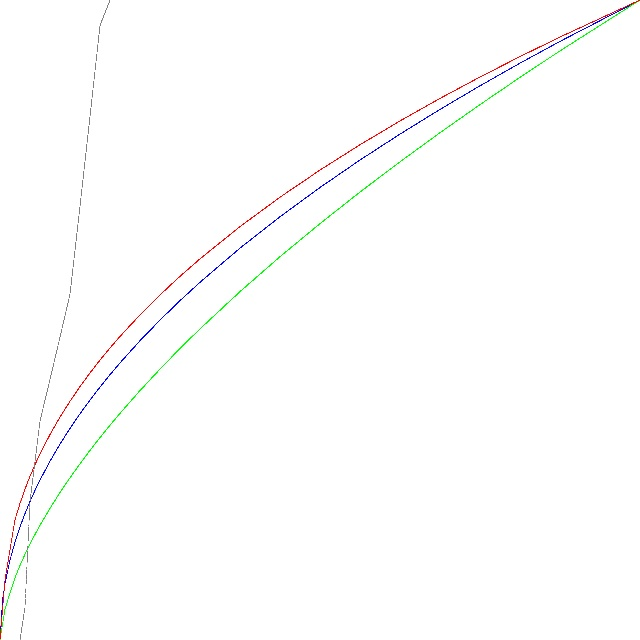
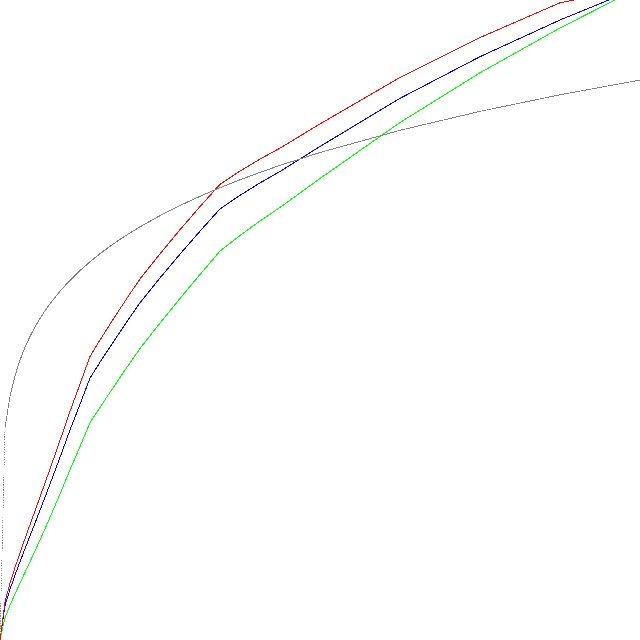
Camera: add gamma curve monitor

diff --git a/gamma/willisGamma.cpp b/gamma/willisGamma.cpp
@@ -8,46 +8,46 @@
 using namespace std;
 using namespace cv;
 
-int gamma_index[] = {
-    0, 64, 128, 256, 384, 512, 640, 768 ,
-    896, 1024, 1280, 1536, 1792, 2048, 2304, 2560 ,
-    2816, 3072, 3584, 4096, 4608, 5120, 6144, 7168 ,
-    8192, 9216, 10240, 11264, 12288, 13312, 14336, 16384 ,
+typedef unsigned int U32;
+// copy from the gamma_tuning.h
+typedef struct __gamma_base_config {
+    float normalGamma;
+    int normalBaseOffset;
+    int normalEndOffset;
+    U32 normalLinearityWeight;
+    float indoorGamma;
+    int indoorBaseOffset;
+    int indoorEndOffset;
+    U32 indoorLinearityWeight;
+    float outdoorGamma;
+    int outdoorBaseOffset;
+    int outdoorEndOffset;
+    U32 outdoorLinearityWeight;
+    const U32 *gamma_table_x;
+    const float *user_gamma;
+} gamma_base_config;
+
+
+// convert from the gamma_tuning.cpp.
+const U32 gamma_index[] =  {
+    0,     128,   256,   384,   512,   640,   768,   896,
+    1024,  1024+128, 1280, 1536,  1792,  2048,  2304,  2560,
+    2816,3072,  3072+256,  3584, 4096,  4608,  5120,  5120+512,
+    6144, 6144+512, 7168, 8192, 10240, 12288, 14336, 16384 
 };
 
-// normal gamma
-int gamma1_table[] = {
-    0, 1024, 1448, 2048, 2508, 2896, 3238, 3547,
-    3831, 4096, 4579, 5016, 5418, 5792, 6144, 6476,
-    6792, 7094, 7662, 8192, 8688, 9158, 10033, 10836,
-    11585, 12288, 12952, 13584, 14188, 14768, 15325, 16384,
-};
-
-// gamma indoor
-int gamma2_table[] = {
-    0, 399, 799, 1198, 1598, 1910, 2194, 2456,
-    2703, 2936, 3372, 3776, 4154, 4513, 4855, 5183,
-    5498, 5803, 6385, 6936, 7462, 7965, 8919, 9813,
-    10660, 11468, 12242, 12987, 13707, 14404, 15082, 16384,
-};
-
-// gamma outdoor
-int gamma3_table[] = {
-    0, 769, 1539, 2308, 3078, 3499, 3864, 4191 ,
-    4489, 4764, 5262, 5708, 6113, 6488, 6837, 7166 ,
-    7477, 7772, 8325, 8835, 9311, 9758, 10584, 11336, 
-    12031, 12679, 13289, 13865, 14413, 14936, 15437, 16384 ,
-};
-
-int gamma4_table[] = {
-    0, 0, 0, 0, 0, 0, 841, 3552,
-    4575, 5608, 6672, 7753, 8856, 11104, 13404, 15730,
-    16384, 16384, 16384, 16384, 16384, 16384, 16384, 16384,
-    16384, 16384, 16384, 16384, 16384, 16384, 16384, 16384
+const float user_gamma[] = {
+    0.1f, 0.52f, 0.55f, 0.58f, 0.61f, 0.64f, 0.67f, 0.7f,
+    0.73f, 0.76f, 0.79f, 0.85f, 0.91f, 0.96f, 1.01f, 1.02f,
+    1.03f, 1.04f, 1.05f, 1.06f, 1.07f, 1.08f, 1.09f, 1.10f,
+    1.09f, 1.08f, 1.07f, 1.06f, 1.05f, 1.04f, 1.03f, 1.02f,
 };
 
 int gamma_w = 16384;
 int gamma_h = 16384;
+#define GAMMA_MAX_VALUE 16384
+#define GAMMA_TABLE_COUNT 32
+
 void dot(vector<Mat> gamma_planes, int x, int y, int detla, int b, int g, int r) {
     int x1 = x - detla;
     int x2 = x + detla;
@@ -74,11 +74,50 @@ void Gamma(double R, int w, int h, vector<Mat> &gamma_planes) {
         int y = C * pow(x, R);
         dot(gamma_planes, x, y, 20, 0, 0, 0);
     }
-};
+}
+
+void initGamma(U32 *gamma_table_y, float gamma, int base_offset, int end_offset, int linearity) {
+    float C = (GAMMA_MAX_VALUE - base_offset + end_offset) /pow (GAMMA_MAX_VALUE, gamma);
+    int result = 0;
+    for (int i = 0; i < GAMMA_TABLE_COUNT; i++) {
+        result  = C * pow (gamma_index[i], gamma) + base_offset;
+        gamma_table_y[i] = (result < 0) ? 0 : (result > GAMMA_MAX_VALUE) ? GAMMA_MAX_VALUE : result;
+    }
+}
+
+gamma_base_config baseConfig;
+
 int main(int arg, char **argv) {
     Mat gamma(gamma_h, gamma_w, CV_8UC3, Scalar(255, 255,255));
     vector<Mat> gamma_planes;
     split(gamma, gamma_planes);
+
+
+    baseConfig.normalGamma = 1/2.2f;
+    baseConfig.normalBaseOffset = -128;
+    baseConfig.normalEndOffset = 0;
+    baseConfig.normalLinearityWeight = 0;
+
+    baseConfig.indoorGamma = 1/1.8f;
+    baseConfig.indoorBaseOffset = 0;
+    baseConfig.indoorEndOffset = 0;
+    baseConfig.indoorLinearityWeight = 0;
+
+    baseConfig.outdoorGamma = 1/2.4f;
+    baseConfig.outdoorBaseOffset = -384;
+    baseConfig.outdoorEndOffset = 384;
+    baseConfig.outdoorLinearityWeight = 4;
+
+    baseConfig.gamma_table_x = gamma_index;
+    baseConfig.user_gamma = user_gamma;
+
+    // normal gamma.
+    U32 gamma1_table[32];
+    initGamma(gamma1_table, baseConfig.normalGamma, baseConfig.normalBaseOffset, baseConfig.normalEndOffset, baseConfig.normalLinearityWeight);
+
+    for (int i = 0; i < 32; i++) {
+        gamma1_table[i] *= baseConfig.user_gamma[i];
+    }
 
     for (int i = 0; i < 31; i++) {
         int x1 = gamma_index[i];
@@ -96,6 +135,14 @@ int main(int arg, char **argv) {
         }
     }
 
+
+    // indoor gamma.
+    U32 gamma2_table[32];
+    initGamma(gamma2_table, baseConfig.indoorGamma, baseConfig.indoorBaseOffset, baseConfig.indoorEndOffset, baseConfig.indoorLinearityWeight);
+
+    for (int i = 0; i < 32; i++) {
+        gamma2_table[i] *= baseConfig.user_gamma[i];
+    }
     for (int i = 0; i < 31; i++) {
         int x1 = gamma_index[i];
         int x2 = gamma_index[i+1];
@@ -112,6 +159,14 @@ int main(int arg, char **argv) {
         }
     }
 
+
+    // outdoor gamma.
+    U32 gamma3_table[32];
+    initGamma(gamma3_table, baseConfig.outdoorGamma, baseConfig.outdoorBaseOffset, baseConfig.outdoorEndOffset, baseConfig.outdoorLinearityWeight);
+
+    for (int i = 0; i < 32; i++) {
+        gamma3_table[i] *= baseConfig.user_gamma[i];
+    }
     for (int i = 0; i < 31; i++) {
         int x1 = gamma_index[i];
         int x2 = gamma_index[i+1];
@@ -127,6 +182,10 @@ int main(int arg, char **argv) {
             dot(gamma_planes, x, y, 10, 0, 0, 255);
         }
     }
+
+    // blue sshape.
+    U32 gamma4_table[32];
+    initGamma(gamma4_table, 1/5.f, 0, -2048, 0);
 
     for (int i = 0; i < 31; i++) {
         int x1 = gamma_index[i];
